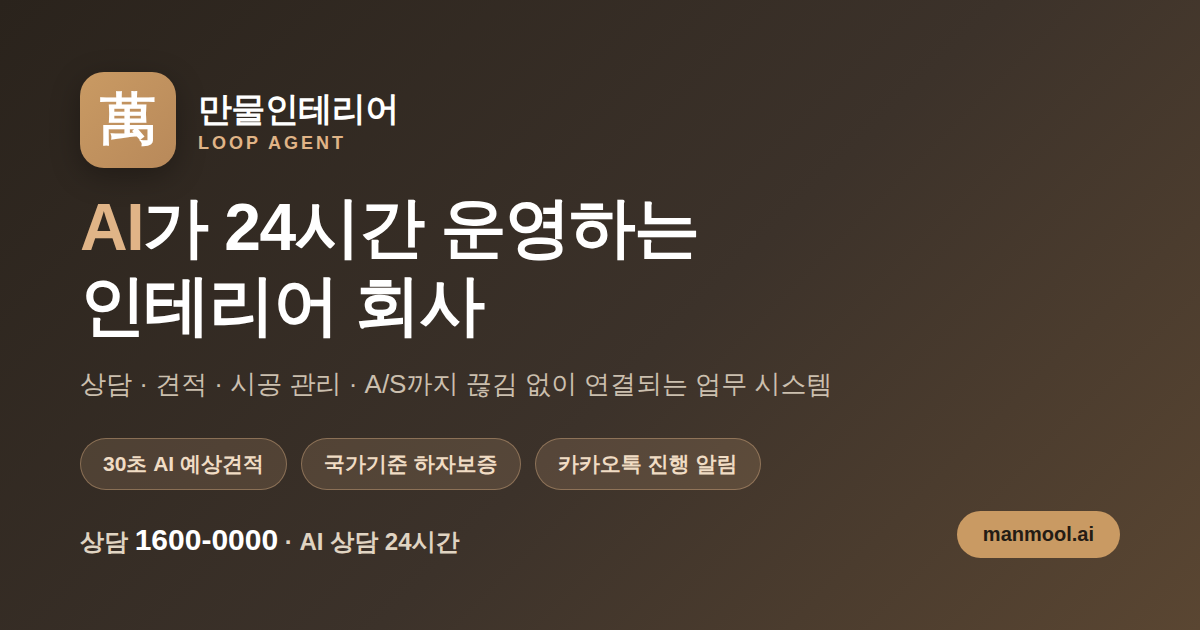
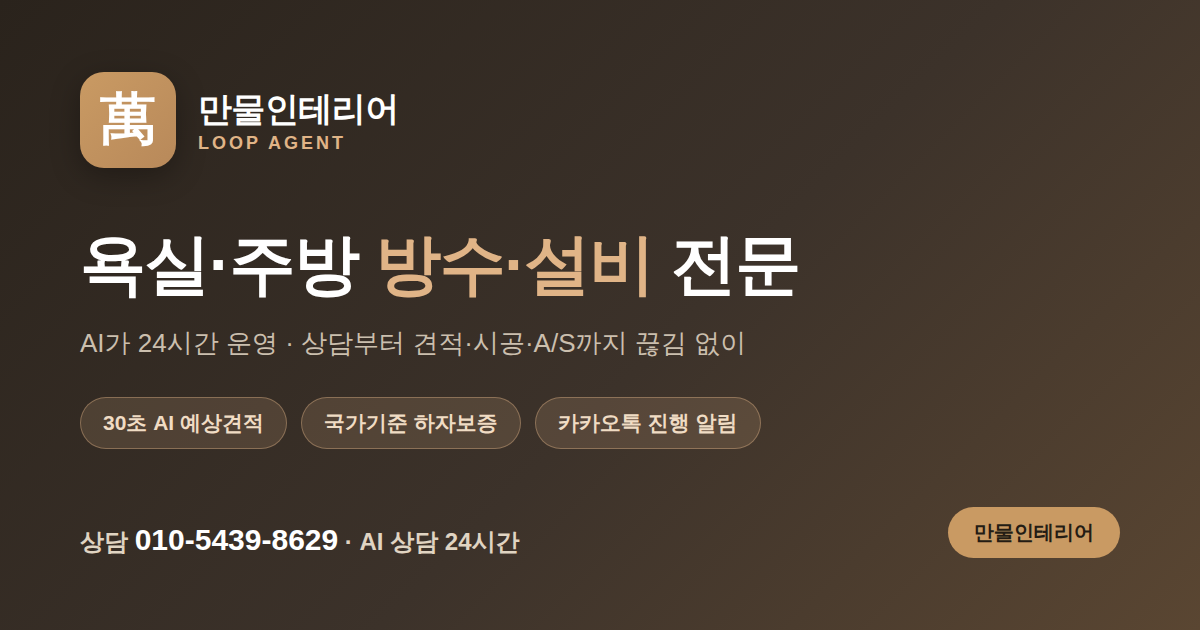
feat: 실제 회사 정보 반영 + 욕실·주방 방수·설비 전문 포지셔닝 (#14)
* feat: AI가 운영하는 만물인테리어(Loop Agent) 웹사이트 구축

- 반응형 원페이지 사이트(index.html + css + js) 신규 추가
- AI 견적 시뮬레이터: 공간유형·면적·마감등급 기반 30초 예상 견적
- 히어로 AI 상담 챗봇 데모, 카운트업 통계, 스크롤 리빌 애니메이션
- 서비스/운영 프로세스/포트폴리오(필터)/리뷰/상담 폼 섹션
- 모든 콘텐츠를 data/site.json으로 분리하여 AI가 콘텐츠 운영 가능
- README를 프로젝트 소개/운영 가이드로 갱신

Claude-Session: https://claude.ai/code/session_01BxciST8GDcp2s474kRA1xc

* feat: n8n 워크플로·카카오톡 챗봇 연동 및 관리자 대시보드 추가

기획서(AI 운영형 홈페이지)의 웹→n8n→카카오톡→대표 승인 구조 구현.

- 단계형 AI 상담 문의 폼(4단계) → n8n 웹훅 전송(js/inquiry.js)
  · 미설정/데모 모드 시 localStorage 폴백
- 카카오톡 연동: 채널 상담 버튼(히어로·문의·연락처·FAB) + 설정 연결
- 관리자 대시보드(admin.html): 리드 목록·AI 1차 요약·우선순위 점수·
  승인/보류/거절(사람 승인 장치)·고객 안내문 초안(발송 분리)
- n8n 워크플로 2종(import용):
  · manmul-inquiry: 접수→AI요약(Claude)→DB저장→카카오 알림→대표 승인(Wait)→고객 발송
  · kakao-chatbot-skill: 카카오 i 오픈빌더 챗봇 스킬서버
- data/config.json: n8n 웹훅·카카오 채널 설정 분리
- integrations/INTEGRATION.md: 연동 가이드
- 기존 단순 상담 폼 제거, 관련 스타일/README 갱신

Claude-Session: https://claude.ai/code/session_01BxciST8GDcp2s474kRA1xc

* refactor: 관리자 목록 새로고침 훅(window.manmulAdminRefresh) 노출

단일 파일 데모의 화면 전환 등 외부에서 문의 목록을 다시 그릴 수 있도록
render 함수를 전역에 노출.

Claude-Session: https://claude.ai/code/session_01BxciST8GDcp2s474kRA1xc

* ci: GitHub Pages 자동 배포 워크플로 추가

정적 사이트를 GitHub Pages로 자동 배포. main 및 작업 브랜치 push 시 실행하며,
actions/configure-pages(enablement)로 Pages를 자동 활성화한다.

Claude-Session: https://claude.ai/code/session_01BxciST8GDcp2s474kRA1xc

* feat: 아파트멘터리형 사례 탐색 + n8n·카카오 자동화 프로세스 재구성

- 운영 방식 섹션을 "체계적·효율적 프로세스 = n8n·카카오톡"으로 재구성
[…]

Changed region(s): [[0.0617, 0.3016, 0.7092, 0.7841], [0.7708, 0.7841, 0.925, 0.8746], [0.0925, 0.8444, 0.4317, 0.9048]]

diff --git a/index.html b/index.html
@@ -4,8 +4,8 @@
   <meta charset="UTF-8" />
   <meta name="viewport" content="width=device-width, initial-scale=1.0" />
   <title>만물인테리어 · Loop Agent — AI가 운영하는 인테리어 회사</title>
-  <meta name="description" content="상담부터 견적, 시공, 사후 관리까지 AI 루프 에이전트가 24시간 운영하는 만물인테리어. 30초 즉시 견적, 국가기준 하자보증, 카카오톡 진행 알림." />
-  <meta name="keywords" content="만물인테리어, 인테리어, 아파트 인테리어, 리모델링, 인테리어 견적, AI 견적, 시공 사례, 하자보증, 인테리어 상담" />
+  <meta name="description" content="욕실·주방 방수·설비 전문 만물인테리어. 상담부터 견적·시공·A/S까지 AI 루프 에이전트가 24시간 운영. 30초 즉시 견적, 국가기준 하자보증, 카카오톡 진행 알림." />
+  <meta name="keywords" content="만물인테리어, 욕실 방수, 주방 설비, 욕실 리모델링, 인테리어, 방수 공사, 인테리어 견적, AI 견적, 하자보증, 인테리어 상담" />
   <meta name="author" content="만물인테리어" />
   <meta name="theme-color" content="#b8895a" />
   <link rel="canonical" href="https://01023978629.github.io/manmool/" />
@@ -15,8 +15,8 @@
   <meta property="og:site_name" content="만물인테리어" />
   <meta property="og:locale" content="ko_KR" />
   <meta property="og:url" content="https://01023978629.github.io/manmool/" />
-  <meta property="og:title" content="만물인테리어 · AI가 24시간 운영하는 인테리어 회사" />
-  <meta property="og:description" content="상담·견적·시공 관리·A/S까지 끊김 없이 연결. 30초 AI 예상견적, 국가기준 하자보증, 카카오톡 진행 알림." />
+  <meta property="og:title" content="만물인테리어 · 욕실·주방 방수·설비 전문" />
+  <meta property="og:description" content="욕실·주방 방수·설비 전문. AI가 24시간 운영 — 30초 예상견적, 국가기준 하자보증, 카카오톡 진행 알림." />
   <meta property="og:image" content="https://01023978629.github.io/manmool/og-image.png" />
   <meta property="og:image:width" content="1200" />
   <meta property="og:image:height" content="630" />
@@ -24,8 +24,8 @@
 
   <!-- Twitter Card -->
   <meta name="twitter:card" content="summary_large_image" />
-  <meta name="twitter:title" content="만물인테리어 · AI가 24시간 운영하는 인테리어 회사" />
-  <meta name="twitter:description" content="30초 AI 예상견적, 국가기준 하자보증, 카카오톡 진행 알림." />
+  <meta name="twitter:title" content="만물인테리어 · 욕실·주방 방수·설비 전문" />
+  <meta name="twitter:description" content="욕실·주방 방수·설비 전문 · AI 24시간 운영. 30초 예상견적, 국가기준 하자보증." />
   <meta name="twitter:image" content="https://01023978629.github.io/manmool/og-image.png" />
 
   <!-- 구조화 데이터 (검색 노출) -->
@@ -35,19 +35,21 @@
     "@type": "HomeAndConstructionBusiness",
     "name": "만물인테리어",
     "alternateName": "Manmool Interior · Loop Agent",
-    "description": "AI 루프 에이전트가 24시간 운영하는 인테리어 회사. 상담·견적·시공 관리·A/S를 하나의 업무 시스템으로 연결합니다.",
+    "description": "욕실·주방 방수·설비 전문. AI 루프 에이전트가 24시간 운영하며 상담·견적·시공 관리·A/S를 하나의 업무 시스템으로 연결하는 인테리어 회사.",
     "url": "https://01023978629.github.io/manmool/",
     "image": "https://01023978629.github.io/manmool/og-image.png",
-    "telephone": "1600-0000",
-    "email": "[email redacted]",
-    "address": { "@type": "PostalAddress", "addressCountry": "KR", "addressLocality": "서울특별시", "streetAddress": "만물로 1" },
+    "telephone": "010-5439-8629",
+    "email": "[email redacted]",
+    "taxID": "895-48-01132",
+    "founder": { "@type": "Person", "name": "전병덕" },
+    "address": { "@type": "PostalAddress", "addressCountry": "KR" },
     "foundingDate": "2024",
     "areaServed": "KR",
     "priceRange": "₩₩",
     "openingHoursSpecification": [
       { "@type": "OpeningHoursSpecification", "dayOfWeek": ["Monday","Tuesday","Wednesday","Thursday","Friday","Saturday","Sunday"], "opens": "09:00", "closes": "20:00" }
     ],
-    "knowsAbout": ["아파트 인테리어","리모델링","상업 공간 인테리어","AI 예상견적","하자보증","A/S"]
+    "knowsAbout": ["욕실 방수","주방 설비","방수 공사","욕실 리모델링","인테리어","AI 예상견적","하자보증","A/S"]
   }
   </script>
 
@@ -100,7 +102,7 @@
       <div class="hero-bg" aria-hidden="true"></div>
       <div class="container hero-inner">
         <div class="hero-text">
-          <span class="badge">🤖 AI 루프 에이전트 운영</span>
+          <span class="badge">🛁 욕실·주방 방수·설비 전문 · AI 운영</span>
           <h1 class="hero-title" data-bind="company.tagline">AI가 24시간 운영하는 만물인테리어</h1>
           <p class="hero-desc" data-bind="company.description">상담부터 견적, 시공 관리, 사후 관리까지 — 루프 에이전트가 끊임없이 순환하며 운영하는 차세대 인테리어 회사입니다.</p>
           <div class="hero-actions">

diff --git a/js/main.js b/js/main.js
@@ -483,13 +483,16 @@ function renderFaq(faq) {
 
 /* ---------- 연락처 ---------- */
 function renderContact(company) {
+  const rep = company.rep ? company.rep + (company.repTitle ? ' ' + company.repTitle : '') : '';
   const items = [
     { ic: '📞', label: '전화 상담', value: company.phone },
     { ic: '💬', label: '카카오톡 채널', value: '<a href="#" id="contactKakao">채널 추가 / 상담하기</a>' },
     { ic: '✉️', label: '이메일', value: company.email },
+    { ic: '🧑🔧', label: '담당', value: rep },
     { ic: '🕐', label: '운영 시간', value: company.hours },
-    { ic: '📍', label: '오시는 길', value: company.address }
-  ];
+    { ic: '📍', label: '오시는 길', value: company.address },
+    { ic: '🧾', label: '사업자등록번호', value: company.bizno }
+  ].filter((i) => i.value && String(i.value).trim());
   document.getElementById('contactList').innerHTML = items.map((i) => `
     <li><span class="ic">${i.ic}</span><div><b>${i.label}</b>${i.value}</div></li>`).join('');
 }